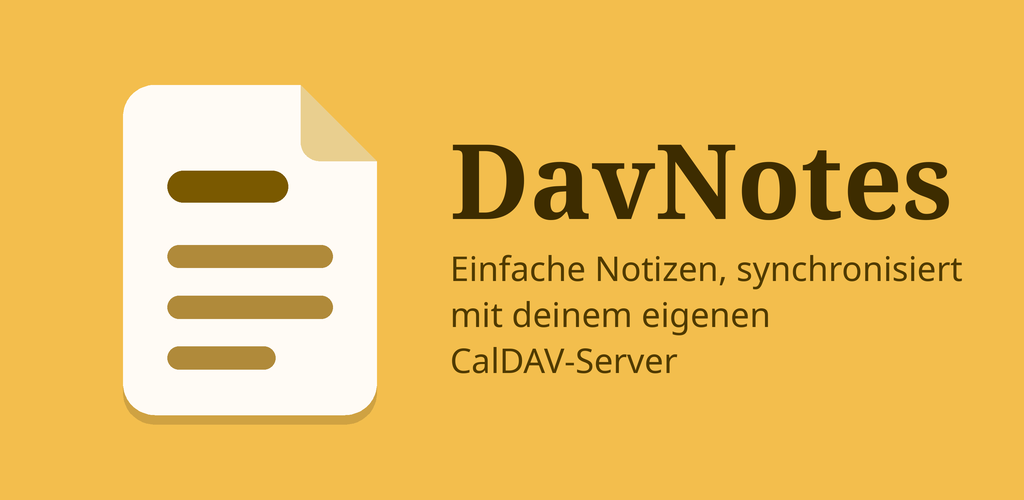
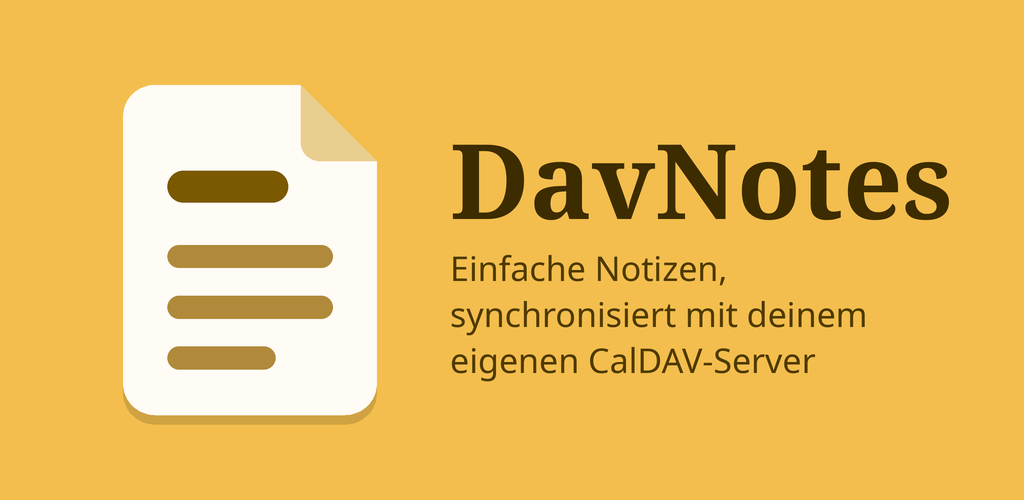
Feature graphic: jævn linjedeling, så sidste ord ikke står alene

Changed region(s): [[0.4375, 0.6, 0.8438, 0.78], [0.7188, 0.51, 0.9375, 0.57]]

diff --git a/tools/make_feature_graphic.py b/tools/make_feature_graphic.py
@@ -69,6 +69,14 @@ def wrap(dr, text, font, width):
             cur = word
     return lines + [cur] if cur else lines
 
+def balanced_wrap(dr, text, font, width):
+    """Som wrap, men med den mindste bredde, der giver samme antal linjer, så sidste linje ikke står alene."""
+    lines = wrap(dr, text, font, width)
+    w = width
+    while w > width // 2 and len(wrap(dr, text, font, w - 4)) == len(lines):
+        w -= 4
+    return wrap(dr, text, font, w)
+
 def render(tagline):
     img = Image.new("RGBA", (W * S, H * S), BG)
     # Papiret fylder ca. 330 px i højden (52 enheder), centreret lodret til venstre
@@ -80,7 +88,7 @@ def render(tagline):
     title_font = ImageFont.truetype(TITLE_FONT, 104 * S)
     text_font = ImageFont.truetype(TEXT_FONT, 34 * S)
     x, text_w = 450 * S, 520 * S
-    lines = wrap(dr, tagline, text_font, text_w)
+    lines = balanced_wrap(dr, tagline, text_font, text_w)
     title_h = 104 * S
     line_h = 46 * S
     gap = 28 * S
